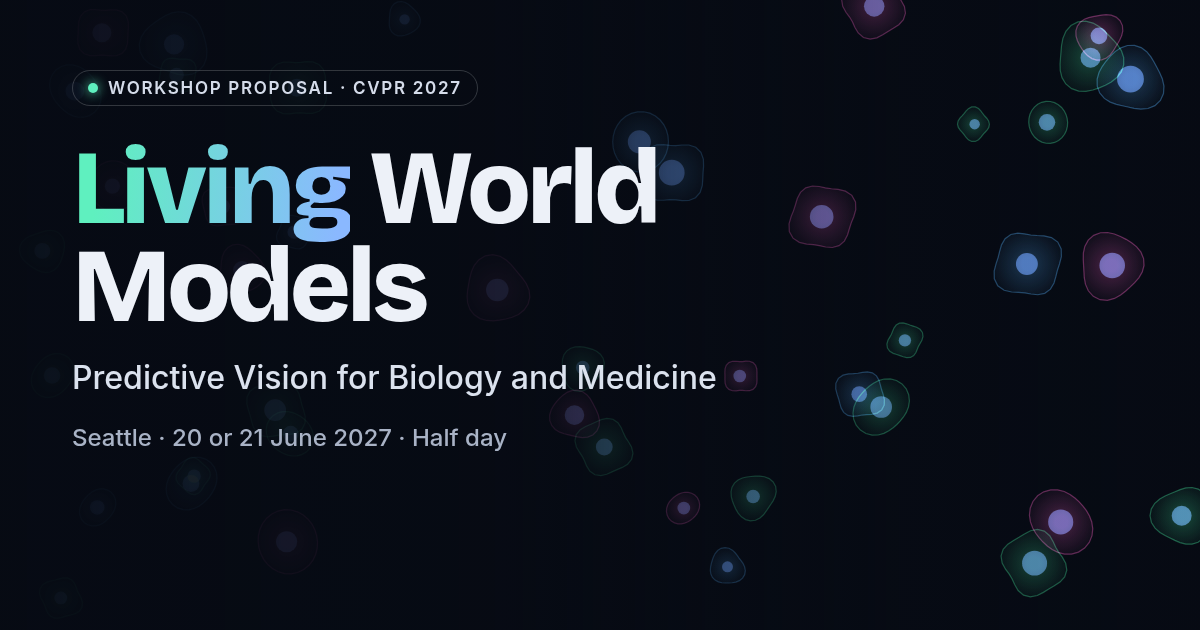
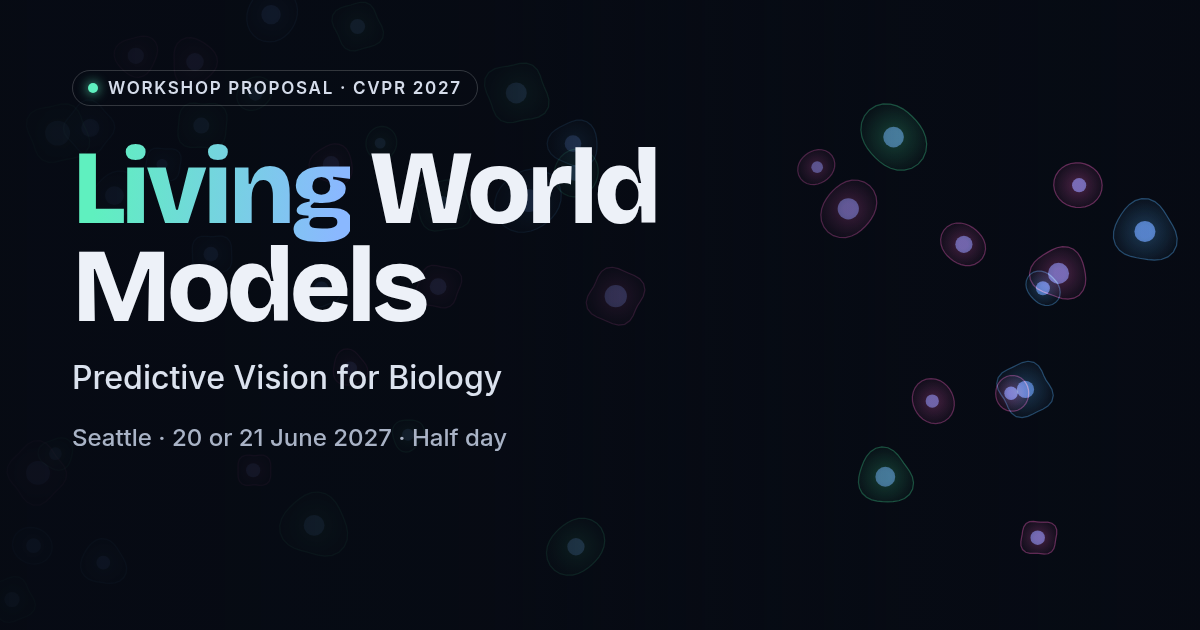
Mirror the proposal's scope change: biology without medicine
Title "Living World Models: Predictive Vision for Biology". Abstract, core
question, Q1-Q3, definition (with the role of other modalities), topics, scope,
responsible-submission rules, panel text and organizer focus lines follow
main.tex. The Patients scale card becomes Organisms (light-sheet zebrafish), the
generation-topic sketch uses cells instead of MRI, and Figure 1 and the social
preview image are regenerated.

diff --git a/index.html b/index.html
@@ -4,13 +4,13 @@
 <meta charset="utf-8">
 <meta name="viewport" content="width=device-width, initial-scale=1">
 <title>Living World Models (LivingWM) · CVPR 2027 Workshop Proposal</title>
-<meta name="description" content="Living World Models: Predictive Vision for Biology and Medicine. A half-day workshop proposed for CVPR 2027 in Seattle on world models of living systems: learning world states from biomedical images, predicting their dynamics under interventions, and generating trustworthy future states.">
+<meta name="description" content="Living World Models: Predictive Vision for Biology. A half-day workshop proposed for CVPR 2027 in Seattle on world models of living systems: learning world states from images, predicting their dynamics under interventions, and generating trustworthy future states.">
 <link rel="canonical" href="https://boom5426.github.io/livingwm/">
 <meta name="color-scheme" content="light dark">
 <meta name="theme-color" content="#070b14">
 <meta property="og:type" content="website">
 <meta property="og:site_name" content="LivingWM">
-<meta property="og:title" content="Living World Models: Predictive Vision for Biology and Medicine">
+<meta property="og:title" content="Living World Models: Predictive Vision for Biology">
 <meta property="og:description" content="A half-day workshop proposed for CVPR 2027 on learning world states of living systems from images, predicting their dynamics under interventions, and generating trustworthy future states.">
 <meta property="og:url" content="https://boom5426.github.io/livingwm/">
 <meta property="og:image" content="https://boom5426.github.io/livingwm/assets/img/og.png">
@@ -65,8 +65,8 @@
   <div class="wrap hero-inner">
     <p class="status"><span class="dot" aria-hidden="true"></span>Workshop proposal · CVPR 2027</p>
     <h1 id="title"><span class="glow">Living</span> World Models</h1>
-    <p class="subtitle">Predictive Vision for Biology and Medicine</p>
-    <p class="pitch">How can we learn world states of living systems from biomedical visual observations, predict how these states evolve over time and under interventions, and generate trustworthy future states?</p>
+    <p class="subtitle">Predictive Vision for Biology</p>
+    <p class="pitch">How can we learn world states of living systems from visual observations, predict how these states evolve over time and under interventions, and generate trustworthy future states?</p>
     <ul class="hero-meta">
       <li><svg class="ic"><use href="#i-cal"/></svg>20 or 21 June 2027</li>
       <li><svg class="ic"><use href="#i-pin"/></svg>Seattle, USA</li>
@@ -95,13 +95,13 @@
     <div class="about-grid">
       <h2 id="about-title">Life is never static. Its images mostly are.</h2>
       <div class="prose">
-        <p class="lead">Living systems change under genes, drugs, disease, and treatment, yet biomedical images offer only partial and often unpaired views of these changes. The Living World Models workshop asks how to learn world states from biomedical visual observations, predict how these states evolve over time and under interventions, and generate trustworthy future states.</p>
-        <p>Beyond realism, such predictions must hold up against independent measurements and unseen interventions, and prove useful for experimental or clinical decisions. Through invited talks, papers, and an open-problems forum, we bring together vision and life-science researchers to establish shared problems and evaluation principles for living world models.</p>
+        <p class="lead">Living systems, from molecules to organisms, change under genes, drugs, and time, yet images offer only partial and often unpaired views of these changes. The Living World Models workshop asks how to learn world states from visual observations, predict how these states evolve over time and under interventions, and generate trustworthy future states.</p>
+        <p>Beyond realism, such predictions must hold up against independent measurements and unseen interventions, and help decide which experiments to run. Through invited talks, papers, and an open-problems forum, we bring together vision and life-science researchers to establish shared problems and evaluation principles for living world models.</p>
       </div>
     </div>
 
     <h3 class="sub">What is a living world model?</h3>
-    <p class="prose">Let <i>x</i> be an image of a biological system (a micrograph, a slide, a scan, a particle image), <i>s<sub>t</sub></i> its latent biological or clinical state at time <i>t</i>, and <i>a</i> an intervention such as a perturbation, a drug, a treatment, or elapsed time. A living world model has three components.</p>
+    <p class="prose">Let <i>x</i> be an image of a biological system (a micrograph, a tissue section, a light-sheet volume, a particle image), <i>s<sub>t</sub></i> its latent biological state at time <i>t</i>, and <i>a</i> an intervention such as a genetic or chemical perturbation, a combination of them, or elapsed time. A living world model has three components.</p>
     <ol class="flow" aria-label="The three components of a living world model: encoder, transition and decoder">
       <li class="node"><span class="sym"><i>x</i></span><small>image</small></li>
       <li class="edge"><span class="lbl"><b>Encoder</b><span class="math">q<sub>φ</sub>(s | x)</span></span><span class="arrow" aria-hidden="true"></span><small>learns the world state</small></li>
@@ -111,13 +111,13 @@
       <li class="edge"><span class="lbl"><b>Decoder</b><span class="math">g<sub>ψ</sub>(x | s)</span></span><span class="arrow" aria-hidden="true"></span><small>generates the future</small></li>
       <li class="node"><span class="sym"><i>x<sub>t+Δ</sub></i></span><small>future image</small></li>
     </ol>
-    <p class="prose">Because snapshots are usually unpaired, the transition is often identifiable only at the population level, as a map that carries the state distribution <i>ρ<sub>t</sub></i> to <i>ρ<sup>a</sup><sub>t+Δ</sub></i>. Optimal transport, flow matching, and Schrödinger bridges are natural tools for this setting, but each picks one coupling among the many that match the two distributions. Which cell becomes which is then an assumption (for example, least displacement) that a model should state and, where possible, test against lineage tracing or live imaging.</p>
+    <p class="prose">Other measurements, such as transcriptomes or protein assays, can enter the encoder as further views of <i>s</i>, and serve as independent evidence when a prediction is tested. Because snapshots are usually unpaired, the transition is often identifiable only at the population level, as a map that carries the state distribution <i>ρ<sub>t</sub></i> to <i>ρ<sup>a</sup><sub>t+Δ</sub></i>. Optimal transport, flow matching, and Schrödinger bridges are natural tools for this setting, but each picks one coupling among the many that match the two distributions. Which cell becomes which is then an assumption (for example, least displacement) that a model should state and, where possible, test against lineage tracing or live imaging.</p>
 
     <div class="audience">
       <h3>Who should attend</h3>
-      <p>Researchers in vision and machine learning, together with the people who generate the images that predictive vision would model. Each invited talk pairs a methodological contribution with a concrete biological or clinical question.</p>
+      <p>Researchers in vision and machine learning, together with the people who generate the images that predictive vision would model. Each invited talk pairs a methodological contribution with a concrete biological question.</p>
       <ul class="chips">
-        <li>World models</li><li>Generative models</li><li>4D vision</li><li>Microscopy</li><li>Cell biology</li><li>Structural biology</li><li>Pathology</li><li>Radiology</li><li>Drug discovery</li>
+        <li>World models</li><li>Generative models</li><li>4D vision</li><li>Microscopy</li><li>Cell biology</li><li>Developmental biology</li><li>Structural biology</li><li>Neuroscience</li><li>Drug discovery</li>
       </ul>
     </div>
   </div>
@@ -127,7 +127,7 @@
   <div class="wrap">
     <p class="eyebrow">Key questions</p>
     <h2 id="questions-title">Three components, two worlds</h2>
-    <p class="prose intro">The workshop is organized around one core question. <em>How can we learn world states of living systems from biomedical visual observations, predict how these states evolve over time and under interventions, and generate trustworthy future states?</em> Vision world models answer it for video, where the state is mostly visible and predictions are judged by realism and physical plausibility. Living systems meet the same difficulties in a more extreme form, and raise one key question at each component. Talks, papers, and the panel address these three.</p>
+    <p class="prose intro">The workshop is organized around one core question. <em>How can we learn world states of living systems from visual observations, predict how these states evolve over time and under interventions, and generate trustworthy future states?</em> Vision world models answer it for video, where the state is mostly visible and predictions are judged by realism and physical plausibility. Living systems meet the same difficulties in a more extreme form, and raise one key question at each component. Talks, papers, and the panel address these three.</p>
     <figure class="figure-card">
       <div class="figure-scroll" tabindex="0" role="region" aria-label="Figure 1 (scrolls sideways on small screens)">
         <img src="assets/img/figure1.svg" width="1121" height="424" loading="lazy"
@@ -138,23 +138,23 @@
         <li>
           <span class="q">Q1 · State</span>
           <h3>Learning world states</h3>
-          <p>What is the state of a living system, and how much of it can images reveal? How should a world model represent partially observed states across scales, and align them with molecular, spatial-omics, and clinical measurements?</p>
+          <p>What is the state of a living system, and how much of it can images reveal? How should a world model represent partially observed states across scales, and align them with molecular, spatial-omics, and functional measurements?</p>
         </li>
         <li>
           <span class="q">Q2 · Dynamics</span>
           <h3>Predicting dynamics under interventions</h3>
-          <p>How can a model learn how states evolve over time and respond to drugs, genetic edits, and treatments from destructive, unpaired snapshots rather than trajectories? When are the dynamics identifiable, and can predictions generalize to unseen interventions, their combinations, new cell types, and new patients?</p>
+          <p>How can a model learn how states evolve over time and respond to drugs and genetic edits from destructive, unpaired snapshots rather than trajectories? When are the dynamics identifiable, and can predictions generalize to unseen interventions, their combinations, new cell types, and new organisms?</p>
         </li>
         <li>
           <span class="q">Q3 · Generation</span>
           <h3>Generating trustworthy future states</h3>
-          <p>How should predicted states be rendered as images, videos, or structures, including counterfactuals? When can such predictions be trusted to guide experiments or clinical research? We propose a four-level evaluation ladder for discussion, not as an established standard: (L1) visual fidelity, (L2) consistency with known biology, (L3) calibrated predictive validity on held-out interventions, time points, or patients, and (L4) utility for experimental or clinical decisions.</p>
+          <p>How should predicted states be rendered as images, videos, or structures, including counterfactuals? When can such predictions be trusted to guide experiments? We propose a four-level evaluation ladder for discussion, not as an established standard: (L1) visual fidelity, (L2) consistency with known biology, (L3) calibrated predictive validity on held-out interventions, time points, or cell types, and (L4) utility for experimental decisions, such as choosing which perturbation to test next. The levels are ordered by strength of evidence, not as prerequisites, and L1 applies only when the output is an image.</p>
         </li>
       </ol>
     </figure>
 
     <h3 class="sub">One template, four scales</h3>
-    <p class="prose">The three components at four biological scales connect communities that rarely meet at the same venue.</p>
+    <p class="prose">The three components at four biological scales, from molecules to organisms, connect communities that rarely meet at the same venue. All four are laboratory settings: the experimenter sets the intervention, as an agent sets its action, and a new experiment can test a prediction. Work at a single scale is in scope, and work that links scales is especially welcome.</p>
     <ul class="scales">
       <li>
         <svg class="scale-ill" viewBox="0 0 240 84" aria-hidden="true" focusable="false"><g transform="translate(10 10)"><rect width="64" height="64" rx="6" fill="#cfcfcf"/>
@@ -179,24 +179,18 @@
 <path d="M6 22 Q22 12 34 24 T60 20" stroke="#e7a3c0" stroke-width="6" fill="none"/>
 <g fill="#6b3f8f"><circle cx="10" cy="40" r="3.2"/><circle cx="18" cy="46" r="3.2"/><circle cx="26" cy="38" r="3.2"/><circle cx="34" cy="48" r="3.2"/><circle cx="42" cy="40" r="3.2"/><circle cx="50" cy="50" r="3.2"/><circle cx="56" cy="38" r="3.2"/><circle cx="14" cy="56" r="3.2"/><circle cx="30" cy="57" r="3.2"/><circle cx="46" cy="58" r="3.2"/><circle cx="22" cy="10" r="3"/><circle cx="48" cy="8" r="3"/></g><rect class="ln" width="64" height="64" rx="6" fill="none" stroke-width="2"/></g><g transform="translate(120 25)"><circle class="ln" r="11" fill="#fff" stroke-width="2.2"/><path class="ln" d="M0 0 V-6.5 M0 0 L5 3" fill="none" stroke-width="2.2"/></g><path class="ln" d="M86 48 H146" fill="none" stroke-width="2.4"/><path d="M144 42 L154 48 L144 54 Z" fill="currentColor"/><g transform="translate(166 10)"><rect width="64" height="64" rx="6" fill="#f4c9da"/><path d="M4 42 Q20 30 32 42 T62 38" stroke="#e7a3c0" stroke-width="6" fill="none"/><path d="M8 12 Q24 4 40 12" stroke="#e7a3c0" stroke-width="5" fill="none"/><g fill="#1f8a68"><circle cx="10" cy="26" r="3.4"/><circle cx="18" cy="21" r="3.4"/><circle cx="14" cy="32" r="3.4"/><circle cx="24" cy="29" r="3.4"/></g><g fill="#3b7fd4"><circle cx="44" cy="22" r="3.4"/><circle cx="52" cy="28" r="3.4"/><circle cx="56" cy="18" r="3.4"/><circle cx="48" cy="13" r="3.4"/></g><g fill="#6b3f8f"><circle cx="12" cy="52" r="3.2"/><circle cx="22" cy="57" r="3.2"/><circle cx="36" cy="53" r="3.2"/><circle cx="48" cy="57" r="3.2"/><circle cx="56" cy="49" r="3.2"/></g><rect class="ln" x="-4" y="-4" width="72" height="72" rx="9" fill="none" stroke-width="2" stroke-dasharray="5 4"/></g></svg>
         <h4>Tissues</h4>
-        <p class="kv"><span>Observation</span>histopathology, spatial omics, organoid imaging</p>
+        <p class="kv"><span>Observation</span>tissue sections, spatial omics, organoid imaging</p>
         <p class="kv"><span>State</span>cell composition, molecular programs</p>
-        <p class="kv"><span>Intervention</span>treatment, development</p>
+        <p class="kv"><span>Intervention</span>drug, genetic edit, development</p>
         <p class="ask"><span>Future state to generate</span>Remodeled tissue, with molecular state inferred from morphology</p>
       </li>
       <li>
-        <svg class="scale-ill" viewBox="0 0 240 84" aria-hidden="true" focusable="false"><g transform="translate(10 10)"><rect width="64" height="64" rx="6" fill="#111"/>
-<ellipse cx="32" cy="33" rx="23" ry="26" fill="#9a9a9a"/><ellipse cx="32" cy="33" rx="17" ry="20" fill="#bdbdbd"/>
-<path d="M32 9 V57" stroke="#777" stroke-width="2"/>
-<path d="M20 22 q6 4 0 9 M44 22 q-6 4 0 9 M19 40 q7 3 2 8 M45 40 q-7 3 -2 8" stroke="#888" stroke-width="1.6" fill="none"/><circle cx="40" cy="27" r="5" fill="#f2f2f2"/><rect class="ln" width="64" height="64" rx="6" fill="none" stroke-width="2"/></g><g transform="translate(120 25) rotate(-35)"><rect class="ln" x="-10" y="-5" width="19" height="10" rx="1.5" fill="#fff" stroke-width="2"/><rect x="-8.6" y="-3.4" width="9" height="6.8" fill="#8ab8ff"/><path class="ln" d="M9 0 H15 M15 -5.5 V5.5 M-10 0 H-18" fill="none" stroke-width="2"/></g><path class="ln" d="M86 48 H146" fill="none" stroke-width="2.4"/><path d="M144 42 L154 48 L144 54 Z" fill="currentColor"/><g transform="translate(166 10)"><rect width="64" height="64" rx="6" fill="#111"/>
-<ellipse cx="32" cy="33" rx="23" ry="26" fill="#9a9a9a"/><ellipse cx="32" cy="33" rx="17" ry="20" fill="#bdbdbd"/>
-<path d="M32 9 V57" stroke="#777" stroke-width="2"/>
-<path d="M20 22 q6 4 0 9 M44 22 q-6 4 0 9 M19 40 q7 3 2 8 M45 40 q-7 3 -2 8" stroke="#888" stroke-width="1.6" fill="none"/><circle cx="40" cy="27" r="3.5" fill="#f2f2f2"/><circle cx="40" cy="27" r="10" fill="none" stroke="#f2b632" stroke-width="2" stroke-dasharray="3 3"/><rect class="ln" x="-4" y="-4" width="72" height="72" rx="9" fill="none" stroke-width="2" stroke-dasharray="5 4"/></g></svg>
-        <h4>Patients</h4>
-        <p class="kv"><span>Observation</span>longitudinal MRI/CT, endoscopic and surgical video</p>
-        <p class="kv"><span>State</span>anatomy, disease status</p>
-        <p class="kv"><span>Intervention</span>therapy, surgical action</p>
-        <p class="ask"><span>Future state to generate</span>Next scan or outcome of an action, with calibrated uncertainty</p>
+        <svg class="scale-ill" viewBox="0 0 240 84" aria-hidden="true" focusable="false"><g transform="translate(10 10)"><rect width="64" height="64" rx="6" fill="#0d1117"/><path d="M30 27.5 C42 28 52 29.5 61 31 L61 37 C52 38.5 42 40 30 40.5 Z" fill="#5f7d70" opacity=".35"/><ellipse cx="21" cy="43.5" rx="8" ry="3.6" fill="#3d4a44"/><path d="M5 34 C5 26 11 23 18 23 C29 23 41 29 58 32.5 L58 35.5 C41 39 29 45 18 45 C11 45 5 42 5 34 Z" fill="#24302b" stroke="#6f8f80" stroke-width="1.3"/><circle cx="11.5" cy="32.5" r="3.8" fill="#1a1a1a" stroke="#8a9a94" stroke-width="1.1"/><g fill="#5ef08a"><circle cx="17.5" cy="27.5" r="2"/><circle cx="21.5" cy="26.5" r="1.9"/><circle cx="25.5" cy="28.5" r="2"/><circle cx="28.5" cy="31.5" r="1.7"/><circle cx="19.5" cy="31" r="1.9"/><circle cx="23.5" cy="32.5" r="2"/><circle cx="27" cy="35.5" r="1.8"/><circle cx="18" cy="36" r="1.8"/><circle cx="22.5" cy="38" r="1.8"/><circle cx="33" cy="33" r="1.5"/><circle cx="38" cy="33.4" r="1.4"/><circle cx="43" cy="33.7" r="1.3"/><circle cx="48" cy="34" r="1.2"/><circle cx="53" cy="34.2" r="1.1"/></g><rect class="ln" width="64" height="64" rx="6" fill="none" stroke-width="2"/></g><g class="ln" transform="translate(120 28) scale(.8)" fill="none" stroke-width="2.4"><circle cx="-8" cy="4" r="5"/><circle cx="8" cy="4" r="5"/><path d="M-5 0 L8 -14 M5 0 L-8 -14"/></g><path class="ln" d="M86 48 H146" fill="none" stroke-width="2.4"/><path d="M144 42 L154 48 L144 54 Z" fill="currentColor"/><g transform="translate(166 10)"><rect width="64" height="64" rx="6" fill="#0d1117"/><path d="M30 27.5 C42 28 52 29.5 61 31 L61 37 C52 38.5 42 40 30 40.5 Z" fill="#5f7d70" opacity=".35"/><ellipse cx="21" cy="43.5" rx="8" ry="3.6" fill="#3d4a44"/><path d="M5 34 C5 26 11 23 18 23 C29 23 41 29 58 32.5 L58 35.5 C41 39 29 45 18 45 C11 45 5 42 5 34 Z" fill="#24302b" stroke="#6f8f80" stroke-width="1.3"/><circle cx="11.5" cy="32.5" r="3.8" fill="#1a1a1a" stroke="#8a9a94" stroke-width="1.1"/><g fill="#5ef08a" opacity=".55"><circle cx="17.5" cy="27.5" r="1.6"/><circle cx="19.5" cy="31" r="1.5"/><circle cx="18" cy="36" r="1.5"/><circle cx="33" cy="33" r="1.3"/><circle cx="43" cy="33.7" r="1.2"/><circle cx="53" cy="34.2" r="1"/></g><g fill="#f2b632"><circle cx="21.5" cy="26.5" r="2.3"/><circle cx="25.5" cy="28.5" r="2.4"/><circle cx="28.5" cy="31.5" r="2.1"/><circle cx="23.5" cy="32.5" r="2.4"/><circle cx="27" cy="35.5" r="2.2"/><circle cx="22.5" cy="38" r="2"/><circle cx="38" cy="33.4" r="1.6"/><circle cx="48" cy="34" r="1.5"/></g><rect class="ln" x="-4" y="-4" width="72" height="72" rx="9" fill="none" stroke-width="2" stroke-dasharray="5 4"/></g></svg>
+        <h4>Organisms</h4>
+        <p class="kv"><span>Observation</span>light-sheet imaging of embryos and larval brains</p>
+        <p class="kv"><span>State</span>cell positions and lineages, neural activity</p>
+        <p class="kv"><span>Intervention</span>genetic edit, drug, developmental time</p>
+        <p class="ask"><span>Future state to generate</span>Later development or brain activity, checked against the recording</p>
       </li>
     </ul>
     <p class="ill-note">Each sketch reads left to right: an observed image, an intervention, and the future image a living world model should generate (dashed outline).</p>
@@ -211,18 +205,18 @@
     <ol class="topics">
       <li>
         <svg class="topic-ill" viewBox="0 0 160 64" aria-hidden="true" focusable="false"><g transform="translate(4 10) scale(0.6875)"><rect width="64" height="64" rx="6" fill="#1d2233"/><circle cx="18" cy="20" r="9" fill="#4fa3e8"/><circle cx="44" cy="16" r="6" fill="#3ecf8e"/><circle cx="38" cy="42" r="11" fill="#e85bb8"/><circle cx="38" cy="42" r="5" fill="#ffd0ee"/><circle cx="14" cy="48" r="5" fill="#3ecf8e"/><circle cx="54" cy="52" r="4" fill="#f2b632"/><rect class="ln" width="64" height="64" rx="6" fill="none" stroke-width="2.9"/></g><path class="ln" d="M56 32 H80" fill="none" stroke-width="2.4"/><path d="M78 26 L88 32 L78 38 Z" fill="currentColor"/><g transform="translate(125 33) scale(.48)"><path class="ln" d="M-56,-6 C-54,-40 -18,-50 10,-44 C44,-38 60,-12 52,16 C44,44 8,52 -20,44 C-48,36 -58,20 -56,-6 Z" fill="#cdeee3" stroke-width="5"/><circle class="ln" cx="-6" cy="2" r="17" fill="#8fd3bb" stroke-width="4"/><path d="M-34 -22 L-14 -30 L14 -24 L30 -4 M-14 -30 L-2 -14 M14 -24 L24 22 L-22 26 L-34 -22" stroke="#6b7b86" stroke-width="3.6" stroke-dasharray="7 7" fill="none"/><g fill="#fff" stroke="#6b7b86" stroke-width="3.2"><circle cx="-34" cy="-22" r="6"/><circle cx="-14" cy="-30" r="6"/><circle cx="14" cy="-24" r="6"/><circle cx="30" cy="-4" r="6"/><circle cx="24" cy="22" r="6"/><circle cx="-22" cy="26" r="6"/></g></g></svg>
-        <h3>World states from biomedical observations</h3>
-        <p>Representation learning for microscopy, Cell Painting, histopathology, and medical imaging. Latent states under partial observability. Alignment of images with molecular, spatial-omics, and clinical signals. 3D and 4D reconstruction of biological structures.</p>
+        <h3>World states from biological observations</h3>
+        <p>Representation learning for microscopy, Cell Painting, spatial-omics imaging, and cryo-EM. Latent states under partial observability. Alignment of images with molecular, spatial-omics, and functional measurements. 3D and 4D reconstruction of biological structures.</p>
       </li>
       <li>
         <svg class="topic-ill" viewBox="0 0 160 64" aria-hidden="true" focusable="false"><ellipse class="ill-amber" cx="25" cy="34" rx="22" ry="19" fill="none" stroke-width="1.8" stroke-dasharray="4 3"/><g transform="translate(16 27) rotate(0)"><ellipse class="ln" rx="5.0" ry="5.0" fill="#f6dfa0" stroke-width="1.4"/><circle r="2" fill="#e3b54a"/></g><g transform="translate(32 25) rotate(0)"><ellipse class="ln" rx="5.0" ry="5.0" fill="#f6dfa0" stroke-width="1.4"/><circle r="2" fill="#e3b54a"/></g><g transform="translate(20 42) rotate(0)"><ellipse class="ln" rx="5.0" ry="5.0" fill="#f6dfa0" stroke-width="1.4"/><circle r="2" fill="#e3b54a"/></g><g transform="translate(35 41) rotate(0)"><ellipse class="ln" rx="5.0" ry="5.0" fill="#f6dfa0" stroke-width="1.4"/><circle r="2" fill="#e3b54a"/></g><ellipse class="ill-amber" cx="135" cy="34" rx="22" ry="19" fill="none" stroke-width="1.8" stroke-dasharray="4 3"/><g transform="translate(126 26) rotate(20)"><ellipse class="ln" rx="7" ry="4" fill="#f6dfa0" stroke-width="1.4"/><circle r="2" fill="#e3b54a"/></g><g transform="translate(143 25) rotate(-25)"><ellipse class="ln" rx="6.5" ry="4" fill="#f6dfa0" stroke-width="1.4"/><circle r="2" fill="#e3b54a"/></g><g transform="translate(128 42) rotate(-10)"><ellipse class="ln" rx="6.5" ry="4" fill="#f6dfa0" stroke-width="1.4"/><circle r="2" fill="#e3b54a"/></g><g transform="translate(144 42) rotate(30)"><ellipse class="ln" rx="7" ry="4" fill="#f6dfa0" stroke-width="1.4"/><circle r="2" fill="#e3b54a"/></g><g transform="translate(70 12) rotate(-40) scale(.42)"><rect class="ln" x="-8" y="-16" width="16" height="32" rx="8" fill="#fff" stroke-width="2.4"/><path d="M-8 0 h16 v8 a8 8 0 0 1 -16 0 z" fill="#e05a47"/></g><g class="ln" transform="translate(89 14) scale(.55)" fill="none" stroke-width="3"><circle cx="-8" cy="4" r="5"/><circle cx="8" cy="4" r="5"/><path d="M-5 0 L8 -14 M5 0 L-8 -14"/></g><path class="ln" d="M52 28 H102" fill="none" stroke-width="2.4"/><path d="M100 22 L110 28 L100 34 Z" fill="currentColor"/><path class="ln" d="M54 46 H100" fill="none" stroke-width="1.6" stroke-dasharray="3 3"/><path d="M99 42.5 L106 46 L99 49.5 Z" fill="currentColor"/><path class="ill-red" d="M75 42 l8 8 M83 42 l-8 8" fill="none" stroke-width="2.4"/></svg>
         <h3>Dynamics under interventions</h3>
-        <p>Image-based prediction of responses to chemical and genetic perturbations. Disease-progression and longitudinal-imaging forecasting. Optimal transport, flow matching, and Schrödinger bridges between distributions. Dynamics from unpaired populations and sparse longitudinal data, and when they are identifiable. Generalization to unseen interventions and their combinations.</p>
+        <p>Image-based prediction of responses to chemical and genetic perturbations. Forecasting from live-cell, developmental, and neural imaging. Optimal transport, flow matching, and Schrödinger bridges between distributions. Dynamics from unpaired populations and sparse longitudinal data, and when they are identifiable. Generalization to unseen interventions and their combinations.</p>
       </li>
       <li>
-        <svg class="topic-ill" viewBox="0 0 160 64" aria-hidden="true" focusable="false"><g transform="translate(12 12) scale(0.625)"><rect width="64" height="64" rx="6" fill="#111"/><ellipse cx="32" cy="33" rx="23" ry="26" fill="#9a9a9a"/><ellipse cx="32" cy="33" rx="17" ry="20" fill="#bdbdbd"/><path d="M32 9 V57" stroke="#777" stroke-width="2"/><path d="M20 22 q6 4 0 9 M44 22 q-6 4 0 9 M19 40 q7 3 2 8 M45 40 q-7 3 -2 8" stroke="#888" stroke-width="1.6" fill="none"/><circle cx="40" cy="27" r="5" fill="#f2f2f2"/><rect class="ln" width="64" height="64" rx="6" fill="none" stroke-width="3.2"/></g><g class="ln" fill="none" stroke-width="2"><path d="M58 32 C78 32 82 16 100 16"/><path d="M58 32 C78 32 82 48 100 48"/></g><path d="M98 12 L106 16 L98 20 Z M98 44 L106 48 L98 52 Z" fill="currentColor"/><g transform="translate(76 11) rotate(-40) scale(.38)"><rect class="ln" x="-8" y="-16" width="16" height="32" rx="8" fill="#fff" stroke-width="2.4"/><path d="M-8 0 h16 v8 a8 8 0 0 1 -16 0 z" fill="#e05a47"/></g><g transform="translate(76 54) rotate(-40) scale(.38)"><rect class="ln" x="-8" y="-16" width="16" height="32" rx="8" fill="#fff" stroke-width="2.4"/><path d="M-8 0 h16 v8 a8 8 0 0 1 -16 0 z" fill="#5a8fd8"/></g><g transform="translate(114 4) scale(0.375)"><rect width="64" height="64" rx="6" fill="#111"/><ellipse cx="32" cy="33" rx="23" ry="26" fill="#9a9a9a"/><ellipse cx="32" cy="33" rx="17" ry="20" fill="#bdbdbd"/><path d="M32 9 V57" stroke="#777" stroke-width="2"/><path d="M20 22 q6 4 0 9 M44 22 q-6 4 0 9 M19 40 q7 3 2 8 M45 40 q-7 3 -2 8" stroke="#888" stroke-width="1.6" fill="none"/><circle cx="40" cy="27" r="2.5" fill="#f2f2f2"/><rect class="ln" x="-6.5" y="-6.5" width="77" height="77" rx="10" fill="none" stroke-width="5.3" stroke-dasharray="10.7 8"/></g><g transform="translate(114 36) scale(0.375)"><rect width="64" height="64" rx="6" fill="#111"/><ellipse cx="32" cy="33" rx="23" ry="26" fill="#9a9a9a"/><ellipse cx="32" cy="33" rx="17" ry="20" fill="#bdbdbd"/><path d="M32 9 V57" stroke="#777" stroke-width="2"/><path d="M20 22 q6 4 0 9 M44 22 q-6 4 0 9 M19 40 q7 3 2 8 M45 40 q-7 3 -2 8" stroke="#888" stroke-width="1.6" fill="none"/><circle cx="40" cy="27" r="8" fill="#f2f2f2"/><rect class="ln" x="-6.5" y="-6.5" width="77" height="77" rx="10" fill="none" stroke-width="5.3" stroke-dasharray="10.7 8"/></g></svg>
+        <svg class="topic-ill" viewBox="0 0 160 64" aria-hidden="true" focusable="false"><g transform="translate(12 12) scale(0.625)"><rect width="64" height="64" rx="6" fill="#1d2233"/><circle cx="18" cy="20" r="9" fill="#4fa3e8"/><circle cx="44" cy="16" r="6" fill="#3ecf8e"/><circle cx="38" cy="42" r="11" fill="#e85bb8"/><circle cx="38" cy="42" r="5" fill="#ffd0ee"/><circle cx="14" cy="48" r="5" fill="#3ecf8e"/><circle cx="54" cy="52" r="4" fill="#f2b632"/><rect class="ln" width="64" height="64" rx="6" fill="none" stroke-width="3.2"/></g><g class="ln" fill="none" stroke-width="2"><path d="M58 32 C78 32 82 16 100 16"/><path d="M58 32 C78 32 82 48 100 48"/></g><path d="M98 12 L106 16 L98 20 Z M98 44 L106 48 L98 52 Z" fill="currentColor"/><g transform="translate(76 11) rotate(-40) scale(.38)"><rect class="ln" x="-8" y="-16" width="16" height="32" rx="8" fill="#fff" stroke-width="2.4"/><path d="M-8 0 h16 v8 a8 8 0 0 1 -16 0 z" fill="#e05a47"/></g><g transform="translate(76 54) rotate(-40) scale(.38)"><rect class="ln" x="-8" y="-16" width="16" height="32" rx="8" fill="#fff" stroke-width="2.4"/><path d="M-8 0 h16 v8 a8 8 0 0 1 -16 0 z" fill="#5a8fd8"/></g><g transform="translate(114 4) scale(0.375)"><rect width="64" height="64" rx="6" fill="#1d2233"/><circle cx="18" cy="20" r="9" fill="#4fa3e8"/><circle cx="44" cy="16" r="6" fill="#3ecf8e"/><circle cx="38" cy="42" r="6" fill="#e85bb8"/><circle cx="38" cy="42" r="3" fill="#ffd0ee"/><circle cx="14" cy="48" r="5" fill="#3ecf8e"/><circle cx="54" cy="52" r="4" fill="#f2b632"/><rect class="ln" x="-6.5" y="-6.5" width="77" height="77" rx="10" fill="none" stroke-width="5.3" stroke-dasharray="10.7 8"/></g><g transform="translate(114 36) scale(0.375)"><rect width="64" height="64" rx="6" fill="#1d2233"/><circle cx="18" cy="20" r="9" fill="#4fa3e8"/><circle cx="44" cy="16" r="6" fill="#3ecf8e"/><circle cx="38" cy="42" r="16" fill="#e85bb8"/><circle cx="38" cy="42" r="7" fill="#ffd0ee"/><circle cx="14" cy="48" r="5" fill="#3ecf8e"/><circle cx="54" cy="52" r="4" fill="#f2b632"/><rect class="ln" x="-6.5" y="-6.5" width="77" height="77" rx="10" fill="none" stroke-width="5.3" stroke-dasharray="10.7 8"/></g></svg>
         <h3>Generation of future states</h3>
-        <p>Image and video generation conditioned on drugs, genes, treatments, and time. Counterfactual image generation. Virtual staining and cross-modal generation. Conformational ensembles beyond static structures. Organ motion and surgical and endoscopic scene simulation.</p>
+        <p>Image and video generation conditioned on drugs, genes, and time. Counterfactual image generation. Virtual staining and cross-modal generation. Conformational ensembles beyond static structures.</p>
       </li>
       <li>
         <svg class="topic-ill" viewBox="0 0 160 64" aria-hidden="true" focusable="false"><g transform="translate(4 6) scale(.5) translate(-22 -314)"><rect class="ln" x="22" y="314" width="88" height="88" rx="6" fill="#1d2233" stroke-width="4"/><circle cx="48" cy="340" r="11" fill="#4fa3e8"/><circle cx="84" cy="348" r="15" fill="#e85bb8"/><circle cx="84" cy="348" r="6" fill="#ffd0ee"/><circle cx="56" cy="380" r="7" fill="#3ecf8e"/><circle class="ln" cx="100" cy="390" r="22" fill="#fff" fill-opacity=".35" stroke-width="6"/><path class="ln" d="M116 406 L134 424" stroke-width="9" fill="none"/></g><path class="ill-green" d="M77 12 l3.5 3.5 l7 -7.5" fill="none" stroke-width="2.6"/><rect class="ill-bar" x="94" y="9.5" width="56" height="5" rx="2.5"/><path class="ill-green" d="M77 25 l3.5 3.5 l7 -7.5" fill="none" stroke-width="2.6"/><rect class="ill-bar" x="94" y="22.5" width="46" height="5" rx="2.5"/><path class="ill-amber" d="M77.5 35 q0 -4.5 3.5 -4.5 q3.5 0 3.5 3.5 q0 3 -3.5 4 v2.5" fill="none" stroke-width="2.4" stroke-linecap="round"/><circle class="ill-amber-f" cx="81" cy="44.6" r="1.5"/><rect class="ill-bar" x="94" y="35.5" width="52" height="5" rx="2.5"/><path class="ill-red" d="M77 48 l8 8 M85 48 l-8 8" fill="none" stroke-width="2.6"/><rect class="ill-bar" x="94" y="48.5" width="40" height="5" rx="2.5"/></svg>
@@ -230,7 +224,7 @@
         <p>Scientific metrics and benchmarks for generative simulators, validation against held-out interventions and independent assays, out-of-distribution generalization, uncertainty estimation, hallucination detection, provenance of synthetic images, and interpretability.</p>
       </li>
     </ol>
-    <p class="scope">General-purpose methods for world models, video generation, and 4D vision are in scope whenever the submission argues for their relevance to a question in the life sciences. Authors will state which level of the evaluation ladder their results reach. When the call opens, this site will list public datasets that support L3 tests (held-out interventions, time points, or patients), curated by the organizers.</p>
+    <p class="scope">General-purpose methods for world models, video generation, and 4D vision are in scope whenever the submission argues for their relevance to a question in the life sciences. Static representation learning is in scope when it serves state inference, dynamics, or intervention prediction; segmentation or classification alone, clinical imaging, and models without a visual component are not. Authors will state which level of the evaluation ladder their results reach. When the call opens, this site will list public datasets that support L3 tests (held-out interventions, time points, or cell types), curated by the organizers.</p>
   </div>
 </section>
 
@@ -259,21 +253,21 @@
         <div class="details-group">
           <details>
             <summary>Review process</summary>
-            <p>Both tracks use double-blind review on OpenReview, and every author needs a complete OpenReview profile. At least one reviewer per paper comes from the relevant biological or clinical domain. The criteria are relevance, technical soundness, quality of evidence, and value for discussion. Organizers and reviewers recuse themselves from conflicted submissions, including those from their own institutions, and an organizer without a conflict oversees each decision.</p>
+            <p>Both tracks use double-blind review on OpenReview, and every author needs a complete OpenReview profile. At least one reviewer per paper comes from the relevant biological domain. The criteria are relevance, technical soundness, quality of evidence, and value for discussion. Organizers and reviewers recuse themselves from conflicted submissions, including those from their own institutions, and an organizer without a conflict oversees each decision.</p>
           </details>
           <details>
             <summary>Responsible submissions</summary>
             <ul class="checks">
-              <li>Papers that use clinical data state the data source, the de-identification, and the ethics approval or data-use agreement. Public datasets are used under their licenses.</li>
-              <li>Synthetic cell images and medical scans are clearly labeled as synthetic.</li>
-              <li>Accepted papers state their intended use and limitations. Predictive models of disease progression are not validated clinical tools.</li>
-              <li>We encourage reporting of subgroup performance and dataset composition.</li>
+              <li>Papers state their data sources and licenses, and the consent and ethics approval for any human-derived cells or tissue.</li>
+              <li>Synthetic cell images and structures are clearly labeled as synthetic.</li>
+              <li>Accepted papers state which predictions were tested experimentally. A predicted response is a hypothesis, not a measurement.</li>
+              <li>We encourage reporting batch effects (laboratory, microscope, plate layout, cell line) and dataset composition.</li>
               <li>The workshop follows the CVPR 2027 policy on large language models for authors and reviewers. Reviewers may not upload submissions to external AI services.</li>
             </ul>
           </details>
           <details>
             <summary>Awards and student support</summary>
-            <p>We will present a Best Paper award and a Best Poster award, sponsored by <a href="https://aitonomy.org/">AItonomy</a>. The organizers manage any prize money, and the sponsor takes no part in selecting the winners. The non-archival track welcomes biology-first and medicine-first submissions that use vision methods, and an online mentoring hour, held by the organizers before the camera-ready deadline, supports first-time CVPR authors.</p>
+            <p>We will present a Best Paper award and a Best Poster award, sponsored by <a href="https://aitonomy.org/">AItonomy</a>. The organizers manage any prize money, and the sponsor takes no part in selecting the winners. The non-archival track welcomes biology-first submissions that use vision methods, and an online mentoring hour, held by the organizers before the camera-ready deadline, supports first-time CVPR authors.</p>
           </details>
         </div>
       </div>
@@ -305,7 +299,7 @@
     <p class="prose intro">About 4.5 hours with three invited talks, one per key question, oral presentations from both paper tracks, a poster session, and a panel and open-problems forum. The workshop is in person, and all talks are streamed and recorded for the CVPR virtual site.</p>
 
     <h3 class="sub">Invited speakers</h3>
-    <p class="prose">To be announced. Each talk takes one key question, and the panel brings together generative modeling, drug discovery, pathology, and clinical validation.</p>
+    <p class="prose">To be announced. Each talk takes one key question, and the panel brings together structure generation, image-based drug discovery, and AI-designed experiments tested in the wet lab.</p>
     <ul class="slots">
       <li><svg class="slot-ic"><use href="#i-cell"/></svg><b>Q1 · Learning cell states from images</b><span>To be announced</span></li>
       <li><svg class="slot-ic"><use href="#i-video"/></svg><b>Q2 · Physical to living world models: what transfers, what breaks</b><span>To be announced</span></li>
@@ -335,7 +329,7 @@
           <p>Which predictions can we test, and against what?</p>
           <footer>The forum question</footer>
         </blockquote>
-        <p>The panel turns Key Question 3 into a working session, moderated by Yingcheng Wu. Each panelist, from structure generation, image-based drug discovery, clinical pathology, and clinical validation, opens with one prediction problem from their field and the independent data that could test it. The discussion then places these problems on the evaluation ladder: which predictions can be tested now and against what data, which outputs remain hypotheses, and which metrics reflect experimental or clinical value. Openings take 10 minutes, discussion 15, and audience questions, including questions submitted online, the last 10. The answers feed the post-workshop summary.</p>
+        <p>The panel turns Key Question 3 into a working session, moderated by Yingcheng Wu. Each panelist, from structure generation, image-based drug discovery, and AI-designed experiments tested in the wet lab, opens with one prediction problem from their field and the independent data that could test it. The discussion then places these problems on the evaluation ladder: which predictions can be tested now and against what data, which outputs remain hypotheses, and which metrics reflect experimental value. Openings take 10 minutes, discussion 15, and audience questions, including questions submitted online, the last 10. The answers feed the post-workshop summary.</p>
         <details>
           <summary>Taking part remotely</summary>
           <p>One organizer relays online questions in every Q&amp;A slot. Authors who cannot travel may present through a prerecorded video, with their poster displayed by an organizer or coauthor. An asynchronous discussion channel stays open for two weeks after the workshop. Accepted papers, posters, and slides (with author consent) will be posted on this website, and the organizers will publish a short summary of open problems and proposed evaluation practices within four weeks of the workshop.</p>
@@ -348,7 +342,7 @@
 <section class="section section-alt" id="organizers" aria-labelledby="organizers-title">
   <div class="wrap">
     <p class="eyebrow">Organizers</p>
-    <h2 id="organizers-title">One team across vision, biology and medicine</h2>
+    <h2 id="organizers-title">One team across vision and biology</h2>
     <ul class="people">
       <li>
         <img src="assets/img/people/bo-li.webp" alt="" width="112" height="112" loading="lazy">
@@ -383,7 +377,7 @@
           <h3><a href="https://charles-wu.com/">Yingcheng Wu</a></h3>
           <p class="affil">Stanford University</p>
           <p class="role">Postdoctoral Scholar in Pathology</p>
-          <p class="focus">Pathology and biomedical world&nbsp;models</p>
+          <p class="focus">Biomedical world models and autonomous discovery</p>
         </div>
       </li>
       <li>
@@ -440,7 +434,7 @@
           <h3><a href="https://www.cse.cuhk.edu.hk/people/faculty/pheng-ann-heng/">Pheng Ann Heng</a></h3>
           <p class="affil">The Chinese University of Hong Kong</p>
           <p class="role">Choh-Ming Li Professor of Computer Science and Engineering</p>
-          <p class="focus">Medical imaging, graphics and visualization</p>
+          <p class="focus">Biomedical image analysis and visualization</p>
         </div>
       </li>
     </ul>
@@ -453,7 +447,7 @@
   <div class="wrap footer-grid">
     <div>
       <p class="footer-brand">Living<b>WM</b></p>
-      <p>Living World Models: Predictive Vision for Biology and Medicine. A workshop proposed to CVPR 2027.</p>
+      <p>Living World Models: Predictive Vision for Biology. A workshop proposed to CVPR 2027.</p>
     </div>
     <div>
       <p class="footer-label">Contact</p>

diff --git a/tools/og.html b/tools/og.html
@@ -29,7 +29,7 @@
     <div class="inner">
       <div class="status"><span class="dot"></span>Workshop proposal · CVPR 2027</div>
       <h1><span class="glow">Living</span> World<br>Models</h1>
-      <p class="sub">Predictive Vision for Biology and Medicine</p>
+      <p class="sub">Predictive Vision for Biology</p>
       <p class="meta">Seattle · 20 or 21 June 2027 · Half day</p>
     </div>
   </div>

diff --git a/README.md b/README.md
@@ -1,6 +1,6 @@
 # LivingWM website
 
-Website of **Living World Models: Predictive Vision for Biology and Medicine**, a half-day workshop proposed to CVPR 2027.
+Website of **Living World Models: Predictive Vision for Biology**, a half-day workshop proposed to CVPR 2027.
 Live at <https://boom5426.github.io/livingwm/> (GitHub Pages, branch `main`, root folder).
 
 A static site: one HTML page, one stylesheet and one small script, with no build step. `.nojekyll` stops GitHub Pages from running Jekyll.
